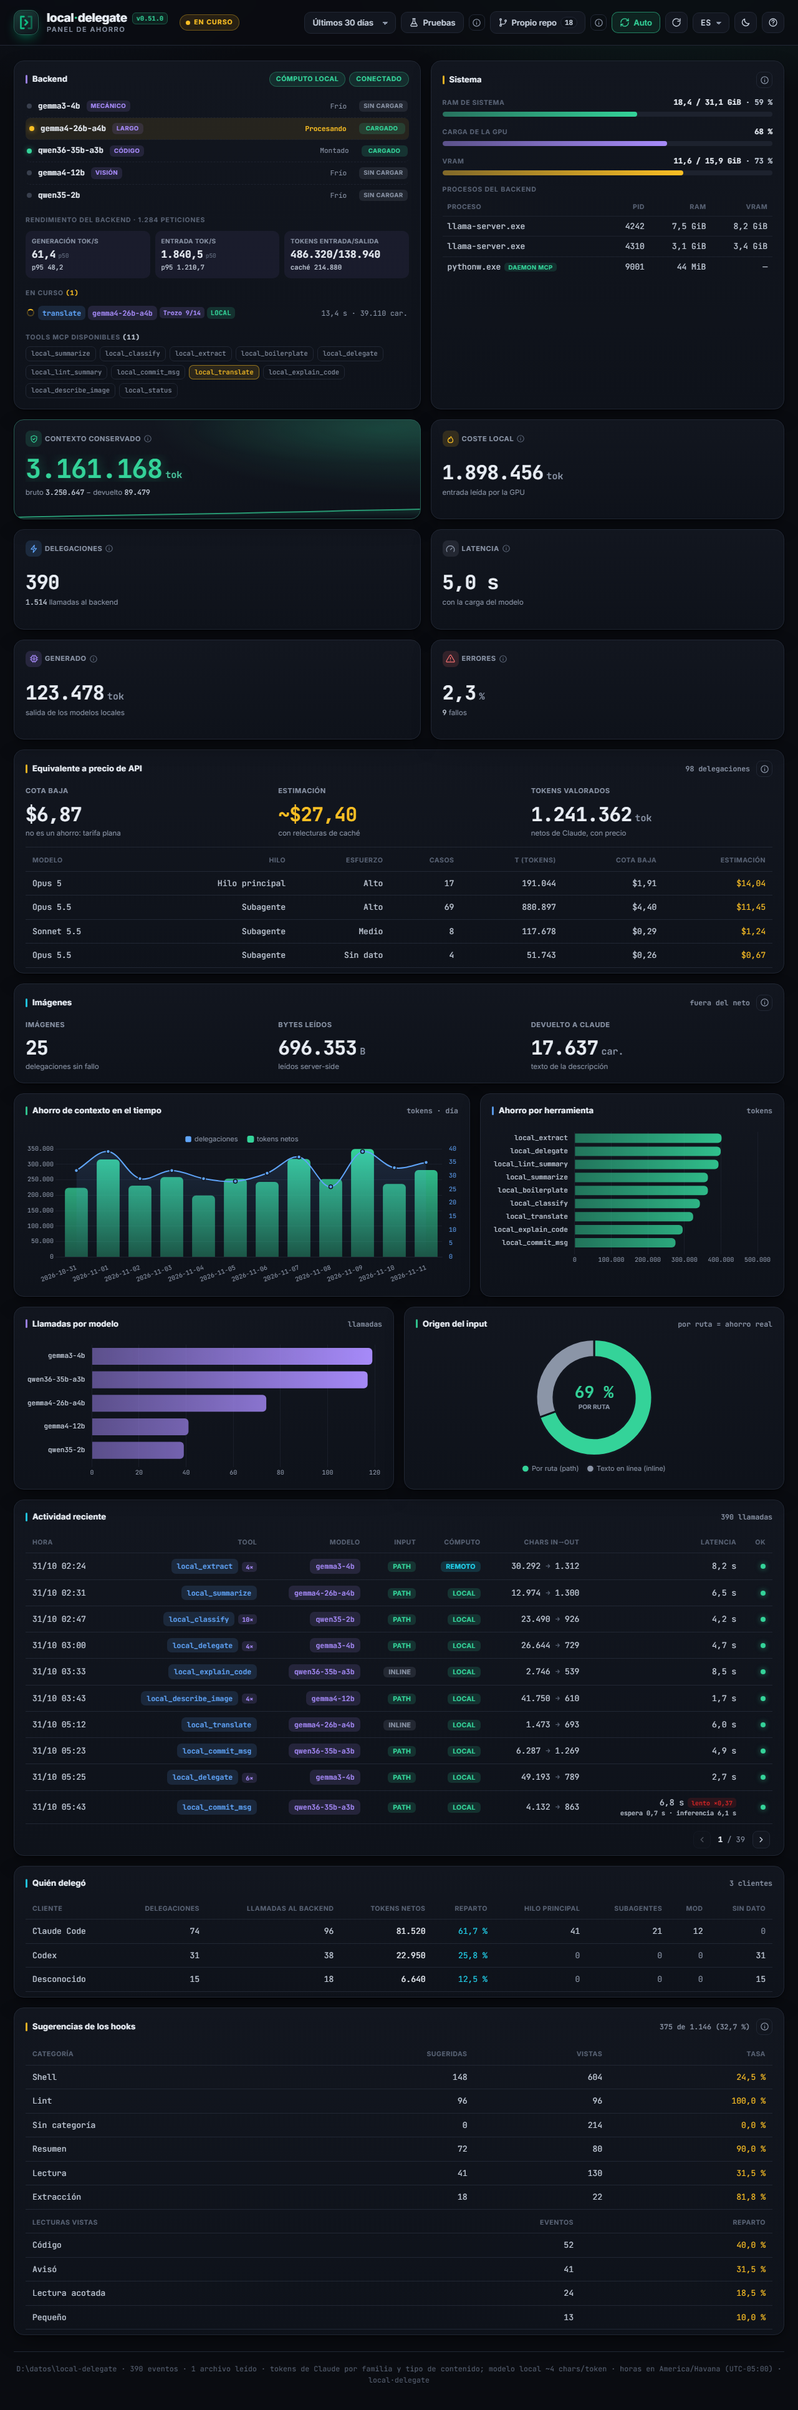
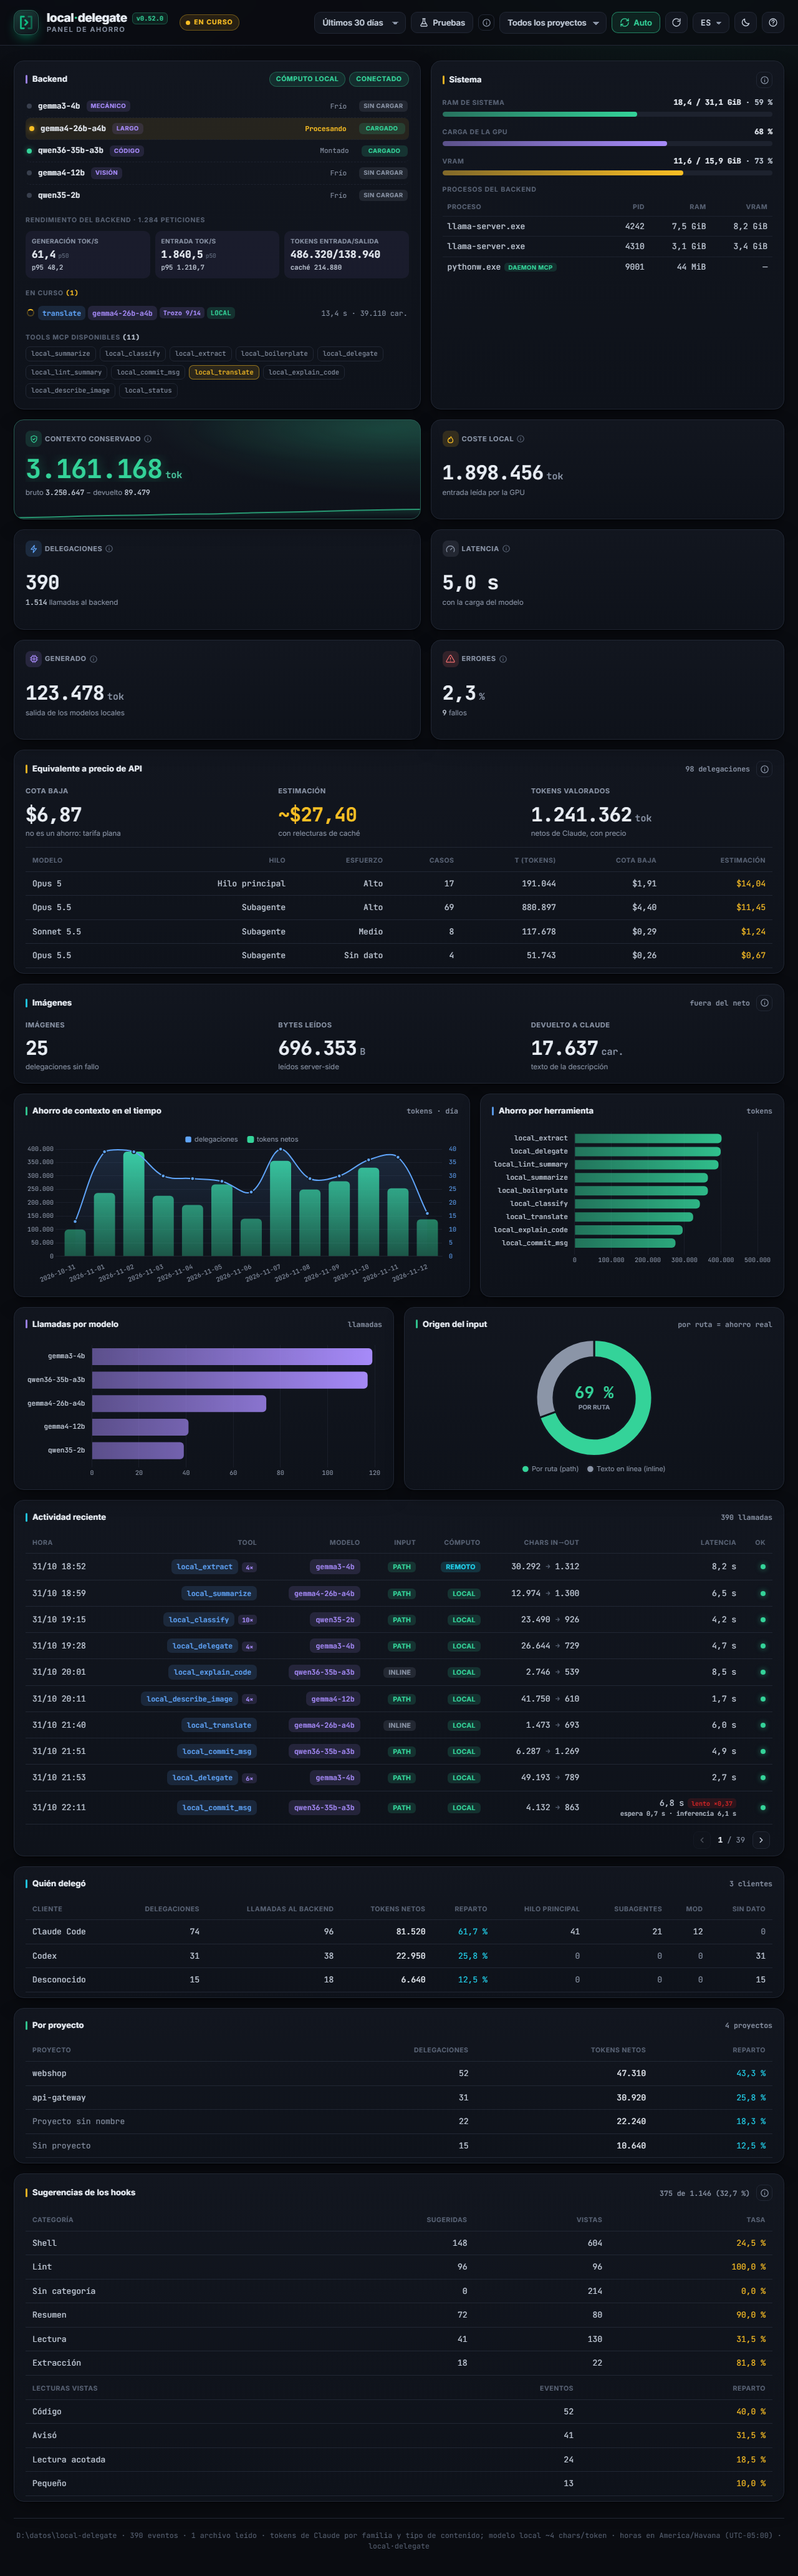
chore: release v0.52.0 (#660)
* chore: release v0.52.0

Bump the version to 0.52.0 in pyproject.toml, server.json, the plugin manifests and uv.lock
(only the package line; the local uv rewrote the whole lock, so it was restored and edited by
hand as in 0.51.0); turn [Unreleased] into the 0.52.0 section with a summary and upgrade steps
(restart the daemon so doctor gets its role models; LOCAL_DELEGATE_SUMMARIZE_TABLE_LONG=0 turns
off table routing of local_summarize), add the PR numbers to today's entries, compact the
test-only bullet (#657) and add the 0.52.0 comparison link.

Add README lines for the role-models check of doctor and for cross_filled_keys and the table
formats of local_extract, and a wiki line for the single cmd reader of llama-swap (#654).

* docs: regenerate the dashboard screenshots for 0.52.0

The screenshots now show the 0.52.0 badge and the panel of #661: project selector and the per-project card, without the own-repo toggle.

diff --git a/CHANGELOG.md b/CHANGELOG.md
@@ -6,9 +6,38 @@ y el proyecto usa [Versionado Semántico](https://semver.org/lang/es/).
 
 ## [Unreleased]
 
+## [0.52.0] - 2026-11-11
+
+El panel se filtra por proyecto, menos valores cambiados de fila sin aviso y un diagnóstico que ve
+el modelo que falta. El panel trae la tarjeta «Por proyecto» y un filtro de proyecto con nombres
+legibles sacados de un mapa local (el log sigue sin nombres), y pierde el conmutador «Propio repo»
+de la 0.51.0, que solo servía a quien desarrolla local-delegate (#661). `local_extract`
+avisa cuando el valor de una clave sale de la fila de otra clave pedida (`cross_filled_keys`, #650);
+la regla de la tabla ve también CSV, TSV, GFM sin tuberías externas, el separador `|-|-|` y las
+tablas de ARIA, y `role_reason` dice qué formato vio; `local_summarize` manda al modelo de contexto
+largo una entrada pequeña con tabla, igual que `local_extract`; `doctor` comprueba que el modelo de
+cada rol esté en la lista del backend; y el `cmd` de llama-swap se lee con un solo lector que
+entiende comillas y `--flag=valor`, así un `--ctx-size=32768` o una ruta con espacios ya no se leen
+mal.
+
+### Cómo actualizar
+
+- **En la PC y en la Mac:** ejecuta `local-delegate update` o, si instalaste con versión fija,
+  reinstala con `uv tool install --force --no-cache "local-delegate-mcp[llamaswap]==0.52.0"` (con
+  tus extras). **Reinicia el daemon**: el check nuevo de `doctor` toma los roles del daemon, y uno
+  de la 0.51.0 no los manda (`doctor` usa entonces los de la consola y lo dice en el detalle). Haz
+  `/mcp` en Claude Code (o abre una sesión nueva): las sesiones abiertas siguen con el servidor MCP
+  de la 0.51.0 hasta entonces.
+- No hace falta cambiar la configuración. Opcional: `LOCAL_DELEGATE_SUMMARIZE_TABLE_LONG=0` para
+  que `local_summarize` vuelva al enrutado por tamaño (el de `local_extract` sigue siendo
+  `LOCAL_DELEGATE_EXTRACT_TABLE_LONG=0`).
+- **Panel:** las cifras vuelven a incluir el uso del propio repo (ya no hay conmutador). Las filas
+  de la 0.51.0 se nombran solas la primera vez que abres el panel; las anteriores salen en «Sin
+  proyecto». Quien use la API con `include_self` puede quitarlo: ya no hace nada.
+
 ### Añadido
 
-- **`local_extract` avisa de un valor que solo está en la fila de otra clave pedida (#650).** Si el
+- **`local_extract` avisa de un valor que solo está en la fila de otra clave pedida (#650, #659).** Si el
   valor de una clave (texto, número, o los textos y números de una lista o un objeto) sale de una
   sola fila o línea etiquetada de la entrada (fila de tabla HTML, Markdown, CSV o TSV, clave de un
   JSON o línea `etiqueta: valor`), ni el valor ni esa celda se repiten en otra parte, y otra clave
@@ -27,7 +56,7 @@ y el proyecto usa [Versionado Semántico](https://semver.org/lang/es/).
   casos a ciegas del #586 con respuestas escritas a mano, y sobre 58 respuestas reales grabadas de
   los modelos locales: 0 avisos en falso y 75 cruces detectados, los dos del #586 entre ellos. Los
   cruces con valores repetidos, empates o etiquetas en otro idioma siguen sin aviso.
-- **`doctor` comprueba que cada rol tenga su modelo servido**: el check nuevo `service.role_models`
+- **`doctor` comprueba que cada rol tenga su modelo servido (#656)**: el check nuevo `service.role_models`
   («modelo de cada rol») compara el id de modelo de `mechanical`, `long`, `code` y `vision` con la
   lista de `BASE_URL/models`, sea llama-swap o un backend en la nube. Si falta el de un rol de
   texto da `[WARN]` con el id que falta y la variable `LOCAL_DELEGATE_MODEL_*` que lo cambia; si
@@ -41,7 +70,7 @@ y el proyecto usa [Versionado Semántico](https://semver.org/lang/es/).
 
 ### Cambiado
 
-- **El panel se filtra por proyecto y ya no aparta el propio repo.** Fuera el conmutador «Propio
+- **El panel se filtra por proyecto y ya no aparta el propio repo (#661).** Fuera el conmutador «Propio
   repo» de la 0.51.0: solo le servía a quien desarrolla local-delegate. **Por defecto el panel lo
   enseña todo.** En su lugar, la tarjeta nueva **Por proyecto** (delegaciones, tokens netos y
   reparto de cada repo, de mayor a menor) y un selector de **proyecto** en la barra de filtros que
@@ -70,7 +99,7 @@ y el proyecto usa [Versionado Semántico](https://semver.org/lang/es/).
   nada. Un hash sin nombre sale como «Proyecto sin nombre»; las filas sin
   proyecto, como «Sin proyecto». El nombre de una carpeta es texto no confiable: el panel lo escapa
   siempre.
-- **La regla de la tabla ve más formatos y `role_reason` dice cuál vio (#650).** Además de HTML
+- **La regla de la tabla ve más formatos y `role_reason` dice cuál vio (#650, #658).** Además de HTML
   (`<table`/`<tr`) y de Markdown con su línea `--`, ahora cuentan como tabla una tabla GFM sin
   tuberías externas (`Seats | Domains` sobre `--- | ---`), el separador compacto `|-|-|`, un
   `role="table"`, `"grid"`, `"treegrid"` o `"row"` de ARIA, y tres o más filas seguidas de CSV
@@ -91,7 +120,7 @@ y el proyecto usa [Versionado Semántico](https://semver.org/lang/es/).
   y sin expresiones regulares. El aviso de cifras de `local_summarize` (#630) se queda en las
   tablas HTML, ARIA y Markdown (también GFM): un CSV o un TSV, como un log de CI con tabuladores,
   no lo abre.
-- **`local_summarize` manda al modelo de contexto largo una entrada pequeña con tabla (#650).**
+- **`local_summarize` manda al modelo de contexto largo una entrada pequeña con tabla (#650, #658).**
   La misma regla y el mismo detector que `local_extract`. El resumen termina con un
   `[local-delegate warning: …]` que nombra el formato visto, la fila del log de uso lleva
   `role_reason: "table"` (también las de una llamada cortada) y ese resumen no toma el camino por
@@ -102,17 +131,17 @@ y el proyecto usa [Versionado Semántico](https://semver.org/lang/es/).
 
 ### Corregido
 
-- **Un `session_id` con un salto de línea al final ya no pasa por UUID** al buscar el proyecto de
+- **Un `session_id` con un salto de línea al final ya no pasa por UUID (#655)** al buscar el proyecto de
   una sesión (`hook_common.project_of_session`): el `$` de la expresión también aceptaba la línea
   partida; ahora se compara el identificador entero.
 - **El contador de fidelidad de `local_lint_summary` (`scripts/score_lint_fidelity.py`) ya no
-  tarda segundos en un log con un tramo largo sin espacios**: buscaba ficheros y nodos de pytest
+  tarda segundos en un log con un tramo largo sin espacios (#655)**: buscaba ficheros y nodos de pytest
   con expresiones de coste cuadrático (5 s y 11 s con 5 000 puntos seguidos); ahora usa la
   búsqueda lineal de `lint_patterns` y un recorrido propio desde cada `::`, con el mismo resultado.
 - **Las líneas y opciones nuevas de exclusión del propio repo de `scripts/measure_adoption.py` y
-  `scripts/measure_plugin_adoption.py` salen del catálogo**, en español y en inglés según el idioma
+  `scripts/measure_plugin_adoption.py` salen del catálogo (#655)**, en español y en inglés según el idioma
   del proceso. El resto de los textos de `measure_adoption.py` sigue solo en español.
-- **Un solo lector del `cmd` de llama-swap.** El contexto del modelo, la ruta del GGUF y los tipos
+- **Un solo lector del `cmd` de llama-swap (#654).** El contexto del modelo, la ruta del GGUF y los tipos
   de caché se leían partiendo el `cmd` por espacios, sin entender comillas ni `--flag=valor`, y no
   coincidían con lo que leía la huella del modelo. Con `--ctx-size=32768` el contexto se daba por
   supuesto (8192) y las llamadas que no cabían en 8192 tokens iban sin razonamiento aunque el modelo
@@ -123,14 +152,12 @@ y el proyecto usa [Versionado Semántico](https://semver.org/lang/es/).
   llama-server. Un `-c ${macro}` (o un valor que no sea solo dígitos) sigue contando como contexto
   supuesto, sin inventar un número; `doctor` y `local_status` ya lo avisan cuando el rol tiene
   razonamiento con presupuesto configurado.
-
-- **Los tests del proyecto de la sesión ya no fallan al azar en el CI de Windows.** La búsqueda del
-  transcript de una sesión (`hook_common.project_of_session`) tiene un tope de 50 ms, y un runner
-  de Windows cargado lo gasta recorriendo un solo directorio: la línea del mod salía sin
-  `project`/`project_kind` y fallaba `test_the_salt_and_the_list_come_from_the_process_log_dir` en
-  un PR que no tocaba nada de esto. El tope por defecto se lee ahora al llamar (antes quedaba fijado
-  al definir la función), los tests lo ensanchan y solo el test del tope usa el valor de producción,
-  que no cambia. El test del tope cuenta las entradas recorridas en vez de cronometrar.
+- **Tests más estables en el CI de Windows (#657).** La búsqueda del transcript de una sesión
+  (`hook_common.project_of_session`) tiene un tope de 50 ms que un runner de Windows cargado gasta
+  en un solo directorio, y `test_the_salt_and_the_list_come_from_the_process_log_dir` fallaba al
+  azar. El tope por defecto se lee ahora al llamar, los tests lo ensanchan y el test del tope cuenta
+  las entradas recorridas en vez de cronometrar. Sin cambio de comportamiento: el tope de
+  producción sigue en 50 ms.
 
 ## [0.51.0] - 2026-11-10
 
@@ -5054,7 +5081,8 @@ los ficheros de datos. Lo que lee el usuario sigue en español.
 - Empaquetado para PyPI (`local-delegate-mcp`) ejecutable con `uvx`; `server.json` para el
   registro oficial de MCP.
 
-[Unreleased]: https://github.com/ZahiriNatZuke/local-delegate/compare/v0.51.0...HEAD
+[Unreleased]: https://github.com/ZahiriNatZuke/local-delegate/compare/v0.52.0...HEAD
+[0.52.0]: https://github.com/ZahiriNatZuke/local-delegate/compare/v0.51.0...v0.52.0
 [0.51.0]: https://github.com/ZahiriNatZuke/local-delegate/compare/v0.50.0...v0.51.0
 [0.50.0]: https://github.com/ZahiriNatZuke/local-delegate/compare/v0.49.0...v0.50.0
 [0.49.0]: https://github.com/ZahiriNatZuke/local-delegate/compare/v0.48.0...v0.49.0

diff --git a/README.md b/README.md
@@ -155,7 +155,8 @@ auto-arranque de llama-swap es opt-in (ver tabla de configuración).
 ¿Qué versiones de `llama-server`/`llama-swap` usar y cómo disponer el workspace? Ver
 [Versiones del backend y workspace de referencia](./docs/wiki/Backend-versions.md) (sugerencia
 probada, no requisito). `local-delegate doctor` compara tu instalación contra esas versiones y, de
-paso, comprueba el resto del andamiaje —hooks, skill, memoria, entradas MCP y el daemon— sin
+paso, comprueba el resto del andamiaje —hooks, skill, memoria, entradas MCP, el daemon y que el
+modelo de cada rol esté en la lista del backend— sin
 escribir nada ([qué mira cada check](./docs/wiki/Integration-install.md#comprobar-la-instalación-local-delegate-doctor)).
 
 ## Tools
@@ -167,7 +168,7 @@ al contexto de Claude, y de ahí sale el ahorro.
 |---|---|---|
 | `local_summarize` | Resume texto o archivo; `focus` opcional para decir qué conservar (p. ej. «cifras de configuración»); avisa si el resumen trae siglas, palabras o cifras que la entrada no tiene | mecánico / largo (auto; una entrada pequeña con tabla va a largo) |
 | `local_classify` | Devuelve UNA etiqueta de una lista | mecánico |
-| `local_extract` | Extrae campos → **objeto validado** con exactamente las claves pedidas (las que falten o vengan como «N/A», `null`), no una cadena que haya que parsear; con `path`, números de línea reales para un campo que los pida; una entrada pequeña con tabla va al modelo largo y `_local_delegate.role_reason` lo dice | mecánico / largo (auto; también con tabla) |
+| `local_extract` | Extrae campos → **objeto validado** con exactamente las claves pedidas (las que falten o vengan como «N/A», `null`), no una cadena que haya que parsear; con `path`, números de línea reales para un campo que los pida; una entrada pequeña con tabla (HTML, ARIA, Markdown/GFM, CSV o TSV) va al modelo largo y `_local_delegate.role_reason` lo dice con su `format`; si el valor de una clave sale de la fila de otra clave pedida, avisa en `cross_filled_keys` | mecánico / largo (auto; también con tabla) |
 | `local_boilerplate` | Genera código desde una spec y lo **escribe en `target`**; devuelve solo un recibo | código |
 | `local_delegate` | Escape genérico texto→texto | mecánico (o el que pases) |
 | `local_lint_summary` | Resume logs de lint/tests/CI; con pytest parte de los fallos reales del log y avisa si el resumen no cuadra con ellos | mecánico / largo (auto) |

diff --git a/docs/wiki/Configuration.md b/docs/wiki/Configuration.md
@@ -550,7 +550,8 @@ Se cuenta a 2 caracteres por token, no a 4, porque en código y en español la d
 doble. Si no cabe, **esa llamada** va sin razonamiento (`enable_thinking: false` y el `max_tokens`
 de la tool, sin presupuesto), con el resto de parámetros del rol, y el log marca
 `reasoning_skipped: "context"`. La entrada no se recorta. El `n_ctx` de cada modelo se lee de
-`--ctx-size`/`-c` en la config de llama-swap; si no se puede (sin el extra `[llamaswap]`, sin config
+`--ctx-size`/`-c` en la config de llama-swap (también `--ctx-size=N`; desde la 0.52.0, #654, con el
+mismo lector del `cmd` que la ruta del GGUF, que entiende comillas, y los tipos de caché); si no se puede (sin el extra `[llamaswap]`, sin config
 o sin el modelo en ella), se usa un estimado de **8192** y `doctor` y `local_status` lo avisan. El rol
 `vision` queda fuera de la comprobación: su entrada es una imagen. `set` avisa, sin rechazar, si el
 tope de entrada del rol (`LOCAL_DELEGATE_MAX_CHARS_<ROL>`) en tokens más
